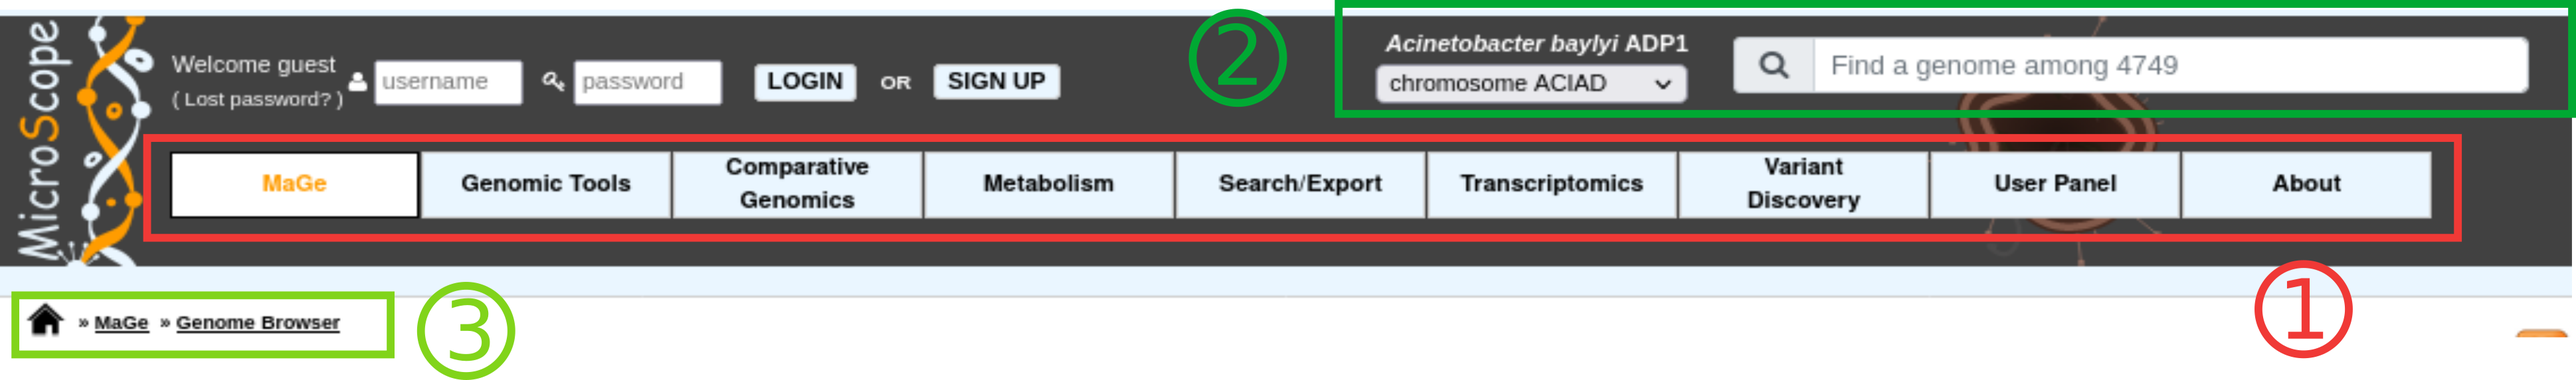
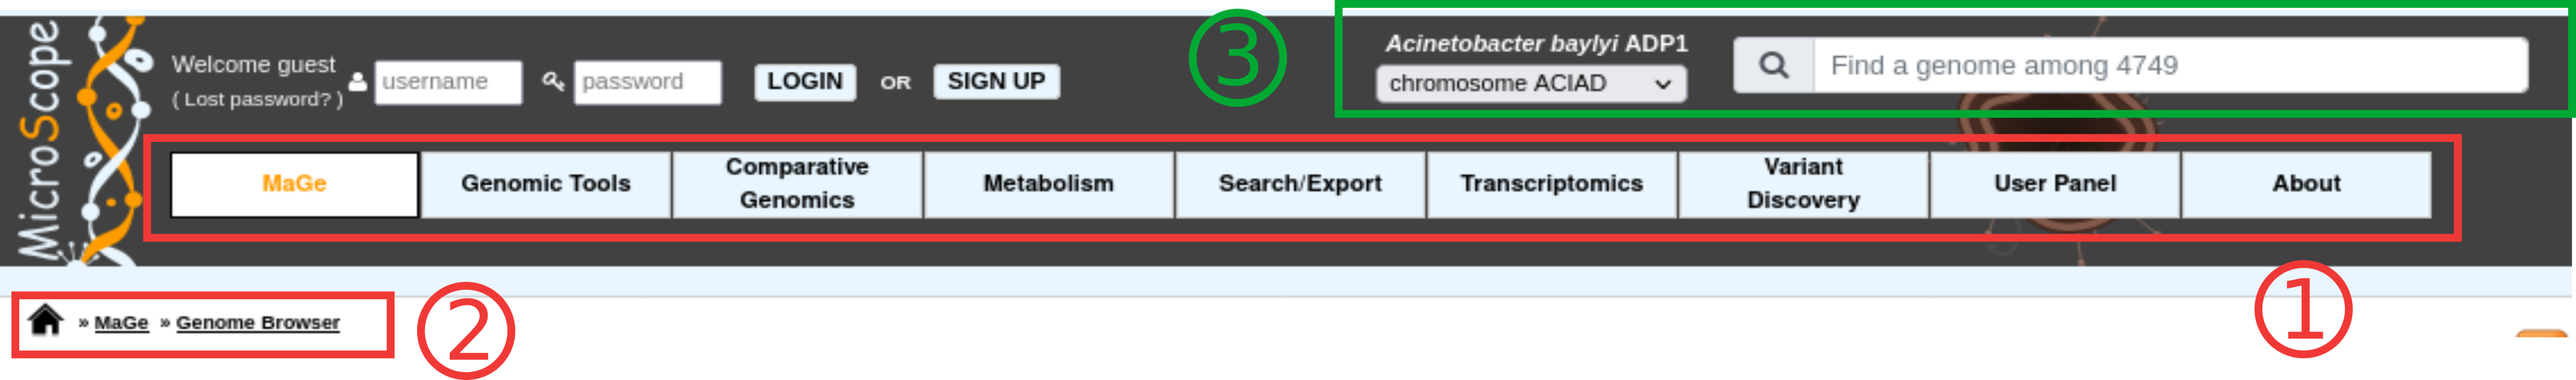
[#8550] Another round of minor modifications.

Changed region(s): [[0.0, 0.7417, 0.2184, 1.0], [0.468, 0.1187, 0.4992, 0.2077]]

diff --git a/docs/content/overview/interface.rst b/docs/content/overview/interface.rst
@@ -9,14 +9,9 @@ Interface
 Overview
 ========
 
-MicroScope's interface is organized around the notion of **tools** (also called **methods**).
-That is, most pages display the results computed by a dedicated tool for the current **reference genome** or a **reference sequence**.
-The current object is displayed in the top right corner of the navifation interface and on the page itself.
-
-Some exceptions to this rule are:
-
-* the :ref:`mage`
-* the :ref:`keywords` in Multiple Mode
+MicroScope's interface is organized around the notion of **tools** (also called **methods**):
+most pages display the results computed by a dedicated tool for the current **reference genome** or a **reference sequence**
+(the name of the current sequence or genome is displayed in the top right corner of the navigation interface).
 
 The picture below gives an overview of the typical interface (in this case the :ref:`viewer`):
 
@@ -46,12 +41,10 @@ The navigation interface is composed of several parts:
 * **Item #1. Navigation menu:** This menu is used to navigate between the different tools.
   Tools are grouped into sections (the entries you see on the image).
   The organization of this tutorial matches those sections.
+  **Item #2** displays the current section and tool.
 
-* **Item #2. Sequence selector \& Genome selector:** This component is used to switch to another replicon of the current genome or to change the current genome.
+* **Item #3. Sequence selector \& Genome selector:** This component is used to switch to another replicon of the current genome or to change the current genome.
   See :ref:`here <simple-selector>` for more information.
-
-* **Item #3. Navigation Submenu:** As you explore and annotate, this menu will show you your position in the MicroScope tool tree, providing users with an easy way to locate themselves on the platform.
-
 
 ======================
 Browsing Result Tables 
